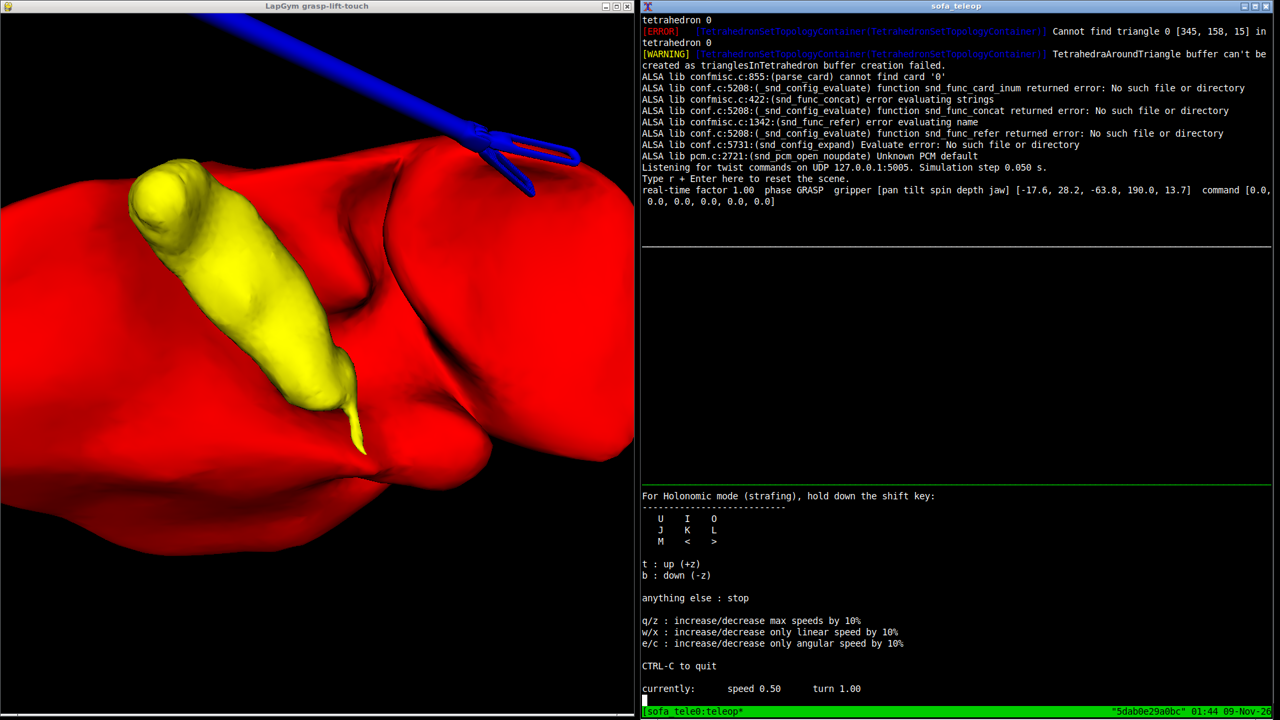
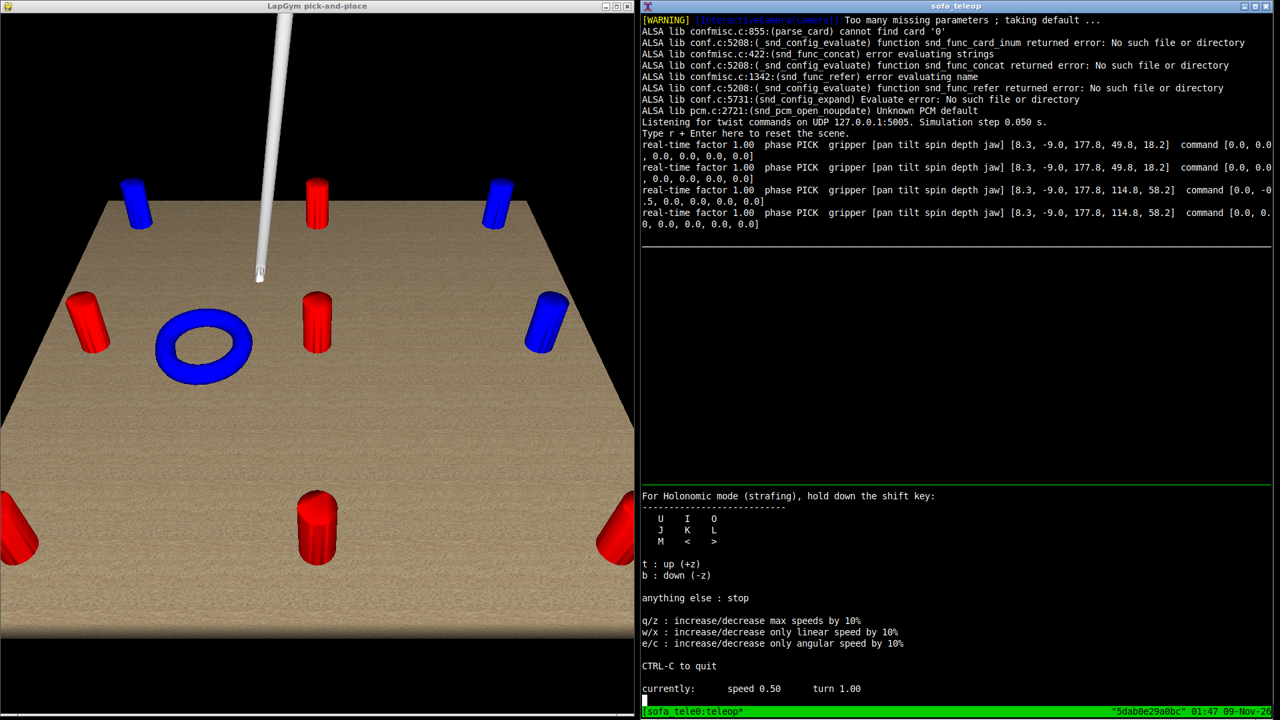
run_sofa_teleop --rings: the ring scene without the arm; README shows it

diff --git a/docker/sofa/lapgym_keyboard_teleop.py b/docker/sofa/lapgym_keyboard_teleop.py
@@ -1,11 +1,12 @@
-"""Drive the LapGym grasp-lift-touch gripper from the sofa_control twist_socket_bridge.
+"""Drive a LapGym gripper from the keyboard through twist_socket_bridge:
+    grasp-lift-touch (organ, the default) or pick-and-place (rings, with --rings).
 
 Data path:
     teleop_twist_keyboard  --Twist on /robot/cmd_vel-->  twist_socket_bridge
     --UDP 127.0.0.1:5005, {"vel": [vx, vy, vz, wx, wy, wz]}-->  this script (SOFA, Python 3.12)
 
-SOFA runs in the ~/sofa_env venv (Python 3.12) and ROS Humble in Python 3.10, which is why
-the command goes over UDP instead of rclpy.
+SOFA runs in its own venv (/opt/sofa_venv) and ROS 2 in the system Python, which is why the
+command goes over UDP instead of rclpy.
 
 Key mapping with teleop_twist_keyboard's default layout:
     i / ,        linear.x   -> tilt the gripper forward / back
@@ -30,7 +31,7 @@ The cautery hook is left still.
 Usage:
     run_sofa_teleop   (in the piper-jazzy container: starts this script and the ROS nodes)
 or alone:
-    sofa-python lapgym_keyboard_teleop.py [--port 5005] [--no-realtime]
+    sofa-python lapgym_keyboard_teleop.py [--rings] [--port 5005] [--no-realtime]
 """
 
 import argparse
@@ -45,13 +46,16 @@ import numpy as np
 
 from sofa_env.base import RenderFramework, RenderMode
 from sofa_env.scenes.grasp_lift_touch.grasp_lift_touch_env import ActionType, GraspLiftTouchEnv, ObservationType
+from sofa_env.scenes.pick_and_place.pick_and_place_env import ActionType as PickAndPlaceActionType
+from sofa_env.scenes.pick_and_place.pick_and_place_env import ObservationType as PickAndPlaceObservationType
+from sofa_env.scenes.pick_and_place.pick_and_place_env import PickAndPlaceEnv
 
 # teleop_twist_keyboard's default speeds. At these speeds a key gives full instrument velocity.
 TELEOP_LINEAR_SPEED = 0.5
 TELEOP_ANGULAR_SPEED = 1.0
 
 # Index of each gripper degree of freedom in the env's continuous action:
-# [pan, tilt, spin, depth, jaw angle] for the gripper, then 5 values for the cautery hook.
+# [pan, tilt, spin, depth, jaw angle] for the gripper; grasp-lift-touch adds 5 values for the cautery hook.
 PAN, TILT, SPIN, DEPTH, JAW = range(5)
 
 
@@ -194,6 +198,13 @@ class WindowedGraspLiftTouchEnv(WindowedEnvMixin, GraspLiftTouchEnv):
     ORBIT_DEFAULT_DISTANCE = 290.0  # mm; the liver is about this far in front of the scene camera
 
 
+class WindowedPickAndPlaceEnv(WindowedEnvMixin, PickAndPlaceEnv):
+    """PickAndPlaceEnv in a resizable window with a mouse-controlled camera."""
+
+    window_caption = "LapGym pick-and-place"
+    ORBIT_DEFAULT_DISTANCE = 220.0  # the scene camera is about 220 mm from the board centre
+
+
 # The scene starts the gripper at about 130 mm depth, where it sits at or past the top edge of
 # the camera image. At 190 mm its jaws are in view above the liver.
 START_DEPTH = 190.0
@@ -202,9 +213,11 @@ START_DEPTH = 190.0
 REDRAW_PERIOD = 1.0 / 60.0
 
 
-def reset_env(env: "WindowedGraspLiftTouchEnv") -> None:
-    """Reset the scene and push the gripper in far enough to be visible."""
+def reset_env(env) -> None:
+    """Reset the scene and, in grasp-lift-touch, push the gripper in far enough to be visible."""
     env.reset()
+    if not isinstance(env, GraspLiftTouchEnv):
+        return
     state = env.gripper.articulated_state.copy()
     state[DEPTH] = max(state[DEPTH], START_DEPTH)
     env.gripper.set_articulated_state(state)
@@ -217,9 +230,9 @@ def read_console_key() -> str:
     return ""
 
 
-def twist_to_action(vel: np.ndarray) -> np.ndarray:
-    """Map [vx, vy, vz, wx, wy, wz] from the bridge to the env's 10-value action in [-1, 1]."""
-    action = np.zeros(10, dtype=np.float32)
+def twist_to_action(vel: np.ndarray, size: int) -> np.ndarray:
+    """Map [vx, vy, vz, wx, wy, wz] from the bridge to the env's action in [-1, 1] (size values)."""
+    action = np.zeros(size, dtype=np.float32)
     action[TILT] = vel[0] / TELEOP_LINEAR_SPEED
     action[JAW] = -vel[1] / TELEOP_LINEAR_SPEED  # J (+y) closes, L (-y) opens
     action[DEPTH] = vel[2] / TELEOP_LINEAR_SPEED
@@ -229,6 +242,7 @@ def twist_to_action(vel: np.ndarray) -> np.ndarray:
 
 def main() -> None:
     parser = argparse.ArgumentParser(description=__doc__, formatter_class=argparse.RawDescriptionHelpFormatter)
+    parser.add_argument("--rings", action="store_true", help="pick-and-place (rings) instead of grasp-lift-touch (organ)")
     parser.add_argument("--port", type=int, default=5005, help="UDP port twist_socket_bridge sends to")
     parser.add_argument("--no-realtime", action="store_true", help="step as fast as possible instead of at wall-clock speed")
     parser.add_argument("--headless", action="store_true", help="render off-screen without a window (for testing)")
@@ -245,18 +259,29 @@ def main() -> None:
     sock.bind(("127.0.0.1", args.port))
     sock.setblocking(False)
 
-    WindowedGraspLiftTouchEnv.window_position = (args.x, args.y)
-    env = WindowedGraspLiftTouchEnv(
+    common = dict(
         render_mode=RenderMode.HEADLESS if args.headless else RenderMode.HUMAN,
         render_framework=RenderFramework.PYGLET if args.headless else RenderFramework.PYGAME,
-        observation_type=ObservationType.STATE,
-        action_type=ActionType.CONTINUOUS,
         image_shape=(args.width, args.height),  # the scene reads this as (width, height)
         time_step=args.dt,
         frame_skip=1,
-        # Default speeds are [pan 15 deg/s, tilt 15 deg/s, spin 25 deg/s, depth 25 mm/s, jaw 20 deg/s].
+        # grasp-lift-touch's default speeds: [pan 15 deg/s, tilt 15 deg/s, spin 25 deg/s, depth 25 mm/s, jaw 20 deg/s].
         maximum_state_velocity=args.speed * np.array([15.0, 15.0, 25.0, 25.0, 20.0]),
     )
+    if args.rings:
+        WindowedPickAndPlaceEnv.window_position = (args.x, args.y)
+        env = WindowedPickAndPlaceEnv(
+            observation_type=PickAndPlaceObservationType.STATE,
+            action_type=PickAndPlaceActionType.CONTINUOUS,
+            num_active_pegs=3,
+            randomize_color=True,
+            start_grasped=False,
+            **common,
+        )
+    else:
+        WindowedGraspLiftTouchEnv.window_position = (args.x, args.y)
+        env = WindowedGraspLiftTouchEnv(observation_type=ObservationType.STATE, action_type=ActionType.CONTINUOUS, **common)
+    action_size = env.action_space.shape[0]
     reset_env(env)
     sim_dt = env.time_step * env.frame_skip
     print(f"Listening for twist commands on UDP 127.0.0.1:{args.port}. Simulation step {sim_dt:.3f} s.", flush=True)
@@ -286,7 +311,7 @@ def main() -> None:
                 reset_env(env)
                 vel[:] = 0.0
 
-            _, _, terminated, truncated, info = env.step(twist_to_action(vel))
+            _, _, terminated, truncated, info = env.step(twist_to_action(vel, action_size))
             if terminated or truncated:
                 print("Episode finished, resetting.", flush=True)
                 reset_env(env)
@@ -296,7 +321,8 @@ def main() -> None:
             now = time.monotonic()
             if now - last_print >= 5.0:
                 rate = steps_since_print * sim_dt / (now - last_print)
-                print(f"real-time factor {rate:.2f}  phase {env.active_phase.name}  gripper [pan tilt spin depth jaw] {np.round(env.gripper.articulated_state, 1).tolist()}  command {np.round(vel, 2).tolist()}", flush=True)
+                phase = getattr(env, "active_phase", None)
+                print(f"real-time factor {rate:.2f}  phase {phase.name if phase is not None else '-'}  gripper [pan tilt spin depth jaw] {np.round(env.gripper.articulated_state, 1).tolist()}  command {np.round(vel, 2).tolist()}", flush=True)
                 last_print, steps_since_print = now, 0
 
             # Wait until wall-clock time catches up with simulated time.

diff --git a/README.md b/README.md
@@ -74,9 +74,9 @@ Otvaraju se RViz s modelom ruke, adaptera i instrumenta i prozor sa sliderima zg
 
 ### SOFA bez ruke
 ```bash
-run_sofa_teleop
+run_sofa_teleop --rings
 ```
-Pokreće scenu s organom (grasp-lift-touch) bez Pipera: tipkovnica ([teleop_twist_keyboard](https://github.com/ros2/teleop_twist_keyboard) na `/robot/cmd_vel`) preko `twist_socket_bridge` šalje naredbe izravno LapGym hvataljci u SOFA-i. Kliknite na donje okno terminala prije tipkanja:
+Pokreće scenu s prstenovima (pick-and-place) bez Pipera; bez `--rings` pokreće se scena s organom (grasp-lift-touch). Tipkovnica ([teleop_twist_keyboard](https://github.com/ros2/teleop_twist_keyboard) na `/robot/cmd_vel`) preko `twist_socket_bridge` šalje naredbe izravno LapGym hvataljci u SOFA-i. Kliknite na donje okno terminala prije tipkanja:
 
 | Tipka | Hvataljka |
 |---|---|
